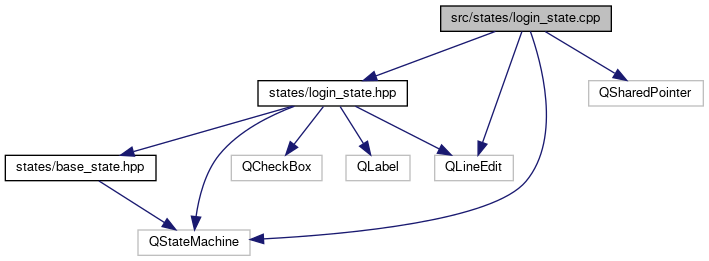
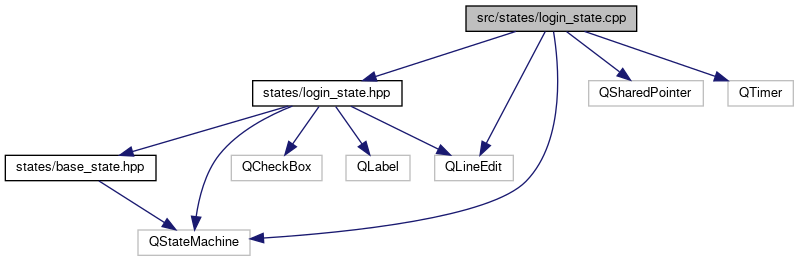
Update docs

diff --git a/docs/login__state_8hpp_source.html b/docs/login__state_8hpp_source.html
@@ -117,48 +117,50 @@ $(function() {
 <div class="line"><a name="l00055"></a><span class="lineno"><a class="line" href="classkmanager_1_1state_1_1LoginState.html#a6d16e72bad2e82f022ae99c856c7b39e">   55</a></span>&#160;            QSharedPointer&lt;QLineEdit&gt; <a class="code" href="classkmanager_1_1state_1_1LoginState.html#a6d16e72bad2e82f022ae99c856c7b39e">enter_password</a>;</div>
 <div class="line"><a name="l00056"></a><span class="lineno"><a class="line" href="classkmanager_1_1state_1_1LoginState.html#af689f36ec168fabde1f3a9a8a6cc63e4">   56</a></span>&#160;            QSharedPointer&lt;QCheckBox&gt; <a class="code" href="classkmanager_1_1state_1_1LoginState.html#af689f36ec168fabde1f3a9a8a6cc63e4">checkbox</a>;</div>
 <div class="line"><a name="l00057"></a><span class="lineno"><a class="line" href="classkmanager_1_1state_1_1LoginState.html#a16c6cdc04d12c5e04512200db6e82526">   57</a></span>&#160;            QSharedPointer&lt;QLabel&gt; <a class="code" href="classkmanager_1_1state_1_1LoginState.html#a16c6cdc04d12c5e04512200db6e82526">enter_password_label</a>;</div>
-<div class="line"><a name="l00058"></a><span class="lineno">   58</span>&#160; </div>
-<div class="line"><a name="l00059"></a><span class="lineno">   59</span>&#160;            <span class="comment">// Variables (other)</span></div>
-<div class="line"><a name="l00060"></a><span class="lineno"><a class="line" href="classkmanager_1_1state_1_1LoginState.html#ae30e715c020da40d80d73b3ccd485454">   60</a></span>&#160;            QWidget* <a class="code" href="classkmanager_1_1state_1_1LoginState.html#ae30e715c020da40d80d73b3ccd485454">host</a>;</div>
-<div class="line"><a name="l00061"></a><span class="lineno">   61</span>&#160;        </div>
-<div class="line"><a name="l00062"></a><span class="lineno">   62</span>&#160;        <span class="comment">//====================================================</span></div>
-<div class="line"><a name="l00063"></a><span class="lineno">   63</span>&#160;        <span class="comment">//     Private</span></div>
-<div class="line"><a name="l00064"></a><span class="lineno">   64</span>&#160;        <span class="comment">//====================================================</span></div>
-<div class="line"><a name="l00065"></a><span class="lineno">   65</span>&#160;        <span class="keyword">private</span>:</div>
-<div class="line"><a name="l00066"></a><span class="lineno">   66</span>&#160; </div>
-<div class="line"><a name="l00067"></a><span class="lineno">   67</span>&#160;            <span class="comment">// Methods</span></div>
-<div class="line"><a name="l00068"></a><span class="lineno">   68</span>&#160;            <span class="keywordtype">void</span> addWidgets() <span class="keyword">override</span>;</div>
-<div class="line"><a name="l00069"></a><span class="lineno">   69</span>&#160;            <span class="keywordtype">void</span> assignProperties() <span class="keyword">override</span>;</div>
-<div class="line"><a name="l00070"></a><span class="lineno">   70</span>&#160; </div>
-<div class="line"><a name="l00071"></a><span class="lineno">   71</span>&#160;            <span class="comment">// Constants</span></div>
-<div class="line"><a name="l00072"></a><span class="lineno">   72</span>&#160;            <span class="keyword">const</span> uint32_t width{ 270 };</div>
-<div class="line"><a name="l00073"></a><span class="lineno">   73</span>&#160;            <span class="keyword">const</span> uint32_t height{ 70 };</div>
-<div class="line"><a name="l00074"></a><span class="lineno">   74</span>&#160; </div>
-<div class="line"><a name="l00075"></a><span class="lineno">   75</span>&#160;        <span class="comment">//====================================================</span></div>
-<div class="line"><a name="l00076"></a><span class="lineno">   76</span>&#160;        <span class="comment">//     private slots</span></div>
-<div class="line"><a name="l00077"></a><span class="lineno">   77</span>&#160;        <span class="comment">//====================================================</span></div>
-<div class="line"><a name="l00078"></a><span class="lineno">   78</span>&#160;        <span class="keyword">private</span> slots:</div>
-<div class="line"><a name="l00079"></a><span class="lineno">   79</span>&#160;            <span class="keywordtype">void</span> changeToggleState();</div>
-<div class="line"><a name="l00080"></a><span class="lineno">   80</span>&#160;            <span class="keywordtype">void</span> login();</div>
-<div class="line"><a name="l00081"></a><span class="lineno">   81</span>&#160; </div>
-<div class="line"><a name="l00082"></a><span class="lineno">   82</span>&#160;        <span class="comment">//====================================================</span></div>
-<div class="line"><a name="l00083"></a><span class="lineno">   83</span>&#160;        <span class="comment">//     signals</span></div>
-<div class="line"><a name="l00084"></a><span class="lineno">   84</span>&#160;        <span class="comment">//====================================================</span></div>
-<div class="line"><a name="l00085"></a><span class="lineno">   85</span>&#160;        signals:</div>
-<div class="line"><a name="l00086"></a><span class="lineno"><a class="line" href="classkmanager_1_1state_1_1LoginState.html#ac3a7719f98c729e202136f5d8996e64d">   86</a></span>&#160;            <span class="keywordtype">void</span> <a class="code" href="classkmanager_1_1state_1_1LoginState.html#ac3a7719f98c729e202136f5d8996e64d">login_successful</a>( <span class="keywordtype">bool</span> checked = <span class="keyword">false</span> );</div>
-<div class="line"><a name="l00087"></a><span class="lineno">   87</span>&#160;    };</div>
-<div class="line"><a name="l00088"></a><span class="lineno">   88</span>&#160;}</div>
-<div class="line"><a name="l00089"></a><span class="lineno">   89</span>&#160; </div>
-<div class="line"><a name="l00090"></a><span class="lineno">   90</span>&#160;<span class="preprocessor">#endif</span></div>
+<div class="line"><a name="l00058"></a><span class="lineno"><a class="line" href="classkmanager_1_1state_1_1LoginState.html#a5dfe34e8462d9e5452b07c75343c09b1">   58</a></span>&#160;            QSharedPointer&lt;QLabel&gt; <a class="code" href="classkmanager_1_1state_1_1LoginState.html#a5dfe34e8462d9e5452b07c75343c09b1">error_label</a>;</div>
+<div class="line"><a name="l00059"></a><span class="lineno">   59</span>&#160; </div>
+<div class="line"><a name="l00060"></a><span class="lineno">   60</span>&#160;            <span class="comment">// Variables (other)</span></div>
+<div class="line"><a name="l00061"></a><span class="lineno"><a class="line" href="classkmanager_1_1state_1_1LoginState.html#ae30e715c020da40d80d73b3ccd485454">   61</a></span>&#160;            QWidget* <a class="code" href="classkmanager_1_1state_1_1LoginState.html#ae30e715c020da40d80d73b3ccd485454">host</a>;</div>
+<div class="line"><a name="l00062"></a><span class="lineno">   62</span>&#160;        </div>
+<div class="line"><a name="l00063"></a><span class="lineno">   63</span>&#160;        <span class="comment">//====================================================</span></div>
+<div class="line"><a name="l00064"></a><span class="lineno">   64</span>&#160;        <span class="comment">//     Private</span></div>
+<div class="line"><a name="l00065"></a><span class="lineno">   65</span>&#160;        <span class="comment">//====================================================</span></div>
+<div class="line"><a name="l00066"></a><span class="lineno">   66</span>&#160;        <span class="keyword">private</span>:</div>
+<div class="line"><a name="l00067"></a><span class="lineno">   67</span>&#160; </div>
+<div class="line"><a name="l00068"></a><span class="lineno">   68</span>&#160;            <span class="comment">// Methods</span></div>
+<div class="line"><a name="l00069"></a><span class="lineno">   69</span>&#160;            <span class="keywordtype">void</span> addWidgets() <span class="keyword">override</span>;</div>
+<div class="line"><a name="l00070"></a><span class="lineno">   70</span>&#160;            <span class="keywordtype">void</span> assignProperties() <span class="keyword">override</span>;</div>
+<div class="line"><a name="l00071"></a><span class="lineno">   71</span>&#160; </div>
+<div class="line"><a name="l00072"></a><span class="lineno">   72</span>&#160;            <span class="comment">// Constants</span></div>
+<div class="line"><a name="l00073"></a><span class="lineno">   73</span>&#160;            <span class="keyword">const</span> uint32_t width{ 270 };</div>
+<div class="line"><a name="l00074"></a><span class="lineno">   74</span>&#160;            <span class="keyword">const</span> uint32_t height{ 70 };</div>
+<div class="line"><a name="l00075"></a><span class="lineno">   75</span>&#160; </div>
+<div class="line"><a name="l00076"></a><span class="lineno">   76</span>&#160;        <span class="comment">//====================================================</span></div>
+<div class="line"><a name="l00077"></a><span class="lineno">   77</span>&#160;        <span class="comment">//     private slots</span></div>
+<div class="line"><a name="l00078"></a><span class="lineno">   78</span>&#160;        <span class="comment">//====================================================</span></div>
+<div class="line"><a name="l00079"></a><span class="lineno">   79</span>&#160;        <span class="keyword">private</span> slots:</div>
+<div class="line"><a name="l00080"></a><span class="lineno">   80</span>&#160;            <span class="keywordtype">void</span> changeToggleState();</div>
+<div class="line"><a name="l00081"></a><span class="lineno">   81</span>&#160;            <span class="keywordtype">void</span> login();</div>
+<div class="line"><a name="l00082"></a><span class="lineno">   82</span>&#160; </div>
+<div class="line"><a name="l00083"></a><span class="lineno">   83</span>&#160;        <span class="comment">//====================================================</span></div>
+<div class="line"><a name="l00084"></a><span class="lineno">   84</span>&#160;        <span class="comment">//     signals</span></div>
+<div class="line"><a name="l00085"></a><span class="lineno">   85</span>&#160;        <span class="comment">//====================================================</span></div>
+<div class="line"><a name="l00086"></a><span class="lineno">   86</span>&#160;        signals:</div>
+<div class="line"><a name="l00087"></a><span class="lineno"><a class="line" href="classkmanager_1_1state_1_1LoginState.html#ac3a7719f98c729e202136f5d8996e64d">   87</a></span>&#160;            <span class="keywordtype">void</span> <a class="code" href="classkmanager_1_1state_1_1LoginState.html#ac3a7719f98c729e202136f5d8996e64d">login_successful</a>( <span class="keywordtype">bool</span> checked = <span class="keyword">false</span> );</div>
+<div class="line"><a name="l00088"></a><span class="lineno">   88</span>&#160;    };</div>
+<div class="line"><a name="l00089"></a><span class="lineno">   89</span>&#160;}</div>
+<div class="line"><a name="l00090"></a><span class="lineno">   90</span>&#160; </div>
+<div class="line"><a name="l00091"></a><span class="lineno">   91</span>&#160;<span class="preprocessor">#endif</span></div>
 <div class="ttc" id="abase__state_8hpp_html"><div class="ttname"><a href="base__state_8hpp.html">base_state.hpp</a></div></div>
 <div class="ttc" id="aclasskmanager_1_1state_1_1BaseState_html"><div class="ttname"><a href="classkmanager_1_1state_1_1BaseState.html">kmanager::state::BaseState</a></div><div class="ttdoc">Class used to construct the base state of the app.</div><div class="ttdef"><b>Definition:</b> base_state.hpp:34</div></div>
 <div class="ttc" id="aclasskmanager_1_1state_1_1LoginState_html"><div class="ttname"><a href="classkmanager_1_1state_1_1LoginState.html">kmanager::state::LoginState</a></div><div class="ttdoc">Class used to construct the login state of the app.</div><div class="ttdef"><b>Definition:</b> login_state.hpp:40</div></div>
 <div class="ttc" id="aclasskmanager_1_1state_1_1LoginState_html_a16c6cdc04d12c5e04512200db6e82526"><div class="ttname"><a href="classkmanager_1_1state_1_1LoginState.html#a16c6cdc04d12c5e04512200db6e82526">kmanager::state::LoginState::enter_password_label</a></div><div class="ttdeci">QSharedPointer&lt; QLabel &gt; enter_password_label</div><div class="ttdef"><b>Definition:</b> login_state.hpp:57</div></div>
-<div class="ttc" id="aclasskmanager_1_1state_1_1LoginState_html_a506df48ef20045b7398e4c768bab8621"><div class="ttname"><a href="classkmanager_1_1state_1_1LoginState.html#a506df48ef20045b7398e4c768bab8621">kmanager::state::LoginState::LoginState</a></div><div class="ttdeci">LoginState(QWidget *host, QState *parent=nullptr)</div><div class="ttdoc">Construct a new LoginState object.</div><div class="ttdef"><b>Definition:</b> login_state.cpp:33</div></div>
+<div class="ttc" id="aclasskmanager_1_1state_1_1LoginState_html_a506df48ef20045b7398e4c768bab8621"><div class="ttname"><a href="classkmanager_1_1state_1_1LoginState.html#a506df48ef20045b7398e4c768bab8621">kmanager::state::LoginState::LoginState</a></div><div class="ttdeci">LoginState(QWidget *host, QState *parent=nullptr)</div><div class="ttdoc">Construct a new LoginState object.</div><div class="ttdef"><b>Definition:</b> login_state.cpp:34</div></div>
+<div class="ttc" id="aclasskmanager_1_1state_1_1LoginState_html_a5dfe34e8462d9e5452b07c75343c09b1"><div class="ttname"><a href="classkmanager_1_1state_1_1LoginState.html#a5dfe34e8462d9e5452b07c75343c09b1">kmanager::state::LoginState::error_label</a></div><div class="ttdeci">QSharedPointer&lt; QLabel &gt; error_label</div><div class="ttdef"><b>Definition:</b> login_state.hpp:58</div></div>
 <div class="ttc" id="aclasskmanager_1_1state_1_1LoginState_html_a6d16e72bad2e82f022ae99c856c7b39e"><div class="ttname"><a href="classkmanager_1_1state_1_1LoginState.html#a6d16e72bad2e82f022ae99c856c7b39e">kmanager::state::LoginState::enter_password</a></div><div class="ttdeci">QSharedPointer&lt; QLineEdit &gt; enter_password</div><div class="ttdef"><b>Definition:</b> login_state.hpp:55</div></div>
 <div class="ttc" id="aclasskmanager_1_1state_1_1LoginState_html_ac3a7719f98c729e202136f5d8996e64d"><div class="ttname"><a href="classkmanager_1_1state_1_1LoginState.html#ac3a7719f98c729e202136f5d8996e64d">kmanager::state::LoginState::login_successful</a></div><div class="ttdeci">void login_successful(bool checked=false)</div></div>
-<div class="ttc" id="aclasskmanager_1_1state_1_1LoginState_html_ae30e715c020da40d80d73b3ccd485454"><div class="ttname"><a href="classkmanager_1_1state_1_1LoginState.html#ae30e715c020da40d80d73b3ccd485454">kmanager::state::LoginState::host</a></div><div class="ttdeci">QWidget * host</div><div class="ttdef"><b>Definition:</b> login_state.hpp:60</div></div>
-<div class="ttc" id="aclasskmanager_1_1state_1_1LoginState_html_aeb18628dfbfbc7fa9e032240cf2e3c05"><div class="ttname"><a href="classkmanager_1_1state_1_1LoginState.html#aeb18628dfbfbc7fa9e032240cf2e3c05">kmanager::state::LoginState::~LoginState</a></div><div class="ttdeci">~LoginState()</div><div class="ttdoc">Destruct a new LoginState object.</div><div class="ttdef"><b>Definition:</b> login_state.cpp:51</div></div>
+<div class="ttc" id="aclasskmanager_1_1state_1_1LoginState_html_ae30e715c020da40d80d73b3ccd485454"><div class="ttname"><a href="classkmanager_1_1state_1_1LoginState.html#ae30e715c020da40d80d73b3ccd485454">kmanager::state::LoginState::host</a></div><div class="ttdeci">QWidget * host</div><div class="ttdef"><b>Definition:</b> login_state.hpp:61</div></div>
+<div class="ttc" id="aclasskmanager_1_1state_1_1LoginState_html_aeb18628dfbfbc7fa9e032240cf2e3c05"><div class="ttname"><a href="classkmanager_1_1state_1_1LoginState.html#aeb18628dfbfbc7fa9e032240cf2e3c05">kmanager::state::LoginState::~LoginState</a></div><div class="ttdeci">~LoginState()</div><div class="ttdoc">Destruct a new LoginState object.</div><div class="ttdef"><b>Definition:</b> login_state.cpp:52</div></div>
 <div class="ttc" id="aclasskmanager_1_1state_1_1LoginState_html_af689f36ec168fabde1f3a9a8a6cc63e4"><div class="ttname"><a href="classkmanager_1_1state_1_1LoginState.html#af689f36ec168fabde1f3a9a8a6cc63e4">kmanager::state::LoginState::checkbox</a></div><div class="ttdeci">QSharedPointer&lt; QCheckBox &gt; checkbox</div><div class="ttdef"><b>Definition:</b> login_state.hpp:56</div></div>
 <div class="ttc" id="anamespacekmanager_1_1state_html"><div class="ttname"><a href="namespacekmanager_1_1state.html">kmanager::state</a></div><div class="ttdef"><b>Definition:</b> add_password_state.cpp:30</div></div>
 </div><!-- fragment --></div><!-- contents -->

diff --git a/docs/classkmanager_1_1state_1_1LoginState-members.html b/docs/classkmanager_1_1state_1_1LoginState-members.html
@@ -78,11 +78,12 @@ $(function() {
   <tr><td class="entry"><a class="el" href="classkmanager_1_1state_1_1LoginState.html#af689f36ec168fabde1f3a9a8a6cc63e4">checkbox</a></td><td class="entry"><a class="el" href="classkmanager_1_1state_1_1LoginState.html">kmanager::state::LoginState</a></td><td class="entry"></td></tr>
   <tr class="even"><td class="entry"><a class="el" href="classkmanager_1_1state_1_1LoginState.html#a6d16e72bad2e82f022ae99c856c7b39e">enter_password</a></td><td class="entry"><a class="el" href="classkmanager_1_1state_1_1LoginState.html">kmanager::state::LoginState</a></td><td class="entry"></td></tr>
   <tr><td class="entry"><a class="el" href="classkmanager_1_1state_1_1LoginState.html#a16c6cdc04d12c5e04512200db6e82526">enter_password_label</a></td><td class="entry"><a class="el" href="classkmanager_1_1state_1_1LoginState.html">kmanager::state::LoginState</a></td><td class="entry"></td></tr>
-  <tr class="even"><td class="entry"><a class="el" href="classkmanager_1_1state_1_1LoginState.html#ae30e715c020da40d80d73b3ccd485454">host</a></td><td class="entry"><a class="el" href="classkmanager_1_1state_1_1LoginState.html">kmanager::state::LoginState</a></td><td class="entry"></td></tr>
-  <tr><td class="entry"><a class="el" href="classkmanager_1_1state_1_1LoginState.html#ac3a7719f98c729e202136f5d8996e64d">login_successful</a>(bool checked=false)</td><td class="entry"><a class="el" href="classkmanager_1_1state_1_1LoginState.html">kmanager::state::LoginState</a></td><td class="entry"><span class="mlabel">signal</span></td></tr>
-  <tr class="even"><td class="entry"><a class="el" href="classkmanager_1_1state_1_1LoginState.html#a506df48ef20045b7398e4c768bab8621">LoginState</a>(QWidget *host, QState *parent=nullptr)</td><td class="entry"><a class="el" href="classkmanager_1_1state_1_1LoginState.html">kmanager::state::LoginState</a></td><td class="entry"><span class="mlabel">explicit</span></td></tr>
-  <tr><td class="entry"><a class="el" href="classkmanager_1_1state_1_1BaseState.html#a96981741385b1a8ba6c5538df52ad343">~BaseState</a>()</td><td class="entry"><a class="el" href="classkmanager_1_1state_1_1BaseState.html">kmanager::state::BaseState</a></td><td class="entry"><span class="mlabel">protected</span><span class="mlabel">virtual</span></td></tr>
-  <tr class="even"><td class="entry"><a class="el" href="classkmanager_1_1state_1_1LoginState.html#aeb18628dfbfbc7fa9e032240cf2e3c05">~LoginState</a>()</td><td class="entry"><a class="el" href="classkmanager_1_1state_1_1LoginState.html">kmanager::state::LoginState</a></td><td class="entry"></td></tr>
+  <tr class="even"><td class="entry"><a class="el" href="classkmanager_1_1state_1_1LoginState.html#a5dfe34e8462d9e5452b07c75343c09b1">error_label</a></td><td class="entry"><a class="el" href="classkmanager_1_1state_1_1LoginState.html">kmanager::state::LoginState</a></td><td class="entry"></td></tr>
+  <tr><td class="entry"><a class="el" href="classkmanager_1_1state_1_1LoginState.html#ae30e715c020da40d80d73b3ccd485454">host</a></td><td class="entry"><a class="el" href="classkmanager_1_1state_1_1LoginState.html">kmanager::state::LoginState</a></td><td class="entry"></td></tr>
+  <tr class="even"><td class="entry"><a class="el" href="classkmanager_1_1state_1_1LoginState.html#ac3a7719f98c729e202136f5d8996e64d">login_successful</a>(bool checked=false)</td><td class="entry"><a class="el" href="classkmanager_1_1state_1_1LoginState.html">kmanager::state::LoginState</a></td><td class="entry"><span class="mlabel">signal</span></td></tr>
+  <tr><td class="entry"><a class="el" href="classkmanager_1_1state_1_1LoginState.html#a506df48ef20045b7398e4c768bab8621">LoginState</a>(QWidget *host, QState *parent=nullptr)</td><td class="entry"><a class="el" href="classkmanager_1_1state_1_1LoginState.html">kmanager::state::LoginState</a></td><td class="entry"><span class="mlabel">explicit</span></td></tr>
+  <tr class="even"><td class="entry"><a class="el" href="classkmanager_1_1state_1_1BaseState.html#a96981741385b1a8ba6c5538df52ad343">~BaseState</a>()</td><td class="entry"><a class="el" href="classkmanager_1_1state_1_1BaseState.html">kmanager::state::BaseState</a></td><td class="entry"><span class="mlabel">protected</span><span class="mlabel">virtual</span></td></tr>
+  <tr><td class="entry"><a class="el" href="classkmanager_1_1state_1_1LoginState.html#aeb18628dfbfbc7fa9e032240cf2e3c05">~LoginState</a>()</td><td class="entry"><a class="el" href="classkmanager_1_1state_1_1LoginState.html">kmanager::state::LoginState</a></td><td class="entry"></td></tr>
 </table></div><!-- contents -->
 <!-- start footer part -->
 <hr class="footer"/><address class="footer"><small>

diff --git a/docs/classkmanager_1_1state_1_1LoginState.html b/docs/classkmanager_1_1state_1_1LoginState.html
@@ -124,6 +124,8 @@ Public Attributes</h2></td></tr>
 <tr class="separator:af689f36ec168fabde1f3a9a8a6cc63e4"><td class="memSeparator" colspan="2">&#160;</td></tr>
 <tr class="memitem:a16c6cdc04d12c5e04512200db6e82526"><td class="memItemLeft" align="right" valign="top">QSharedPointer&lt; QLabel &gt;&#160;</td><td class="memItemRight" valign="bottom"><a class="el" href="classkmanager_1_1state_1_1LoginState.html#a16c6cdc04d12c5e04512200db6e82526">enter_password_label</a></td></tr>
 <tr class="separator:a16c6cdc04d12c5e04512200db6e82526"><td class="memSeparator" colspan="2">&#160;</td></tr>
+<tr class="memitem:a5dfe34e8462d9e5452b07c75343c09b1"><td class="memItemLeft" align="right" valign="top">QSharedPointer&lt; QLabel &gt;&#160;</td><td class="memItemRight" valign="bottom"><a class="el" href="classkmanager_1_1state_1_1LoginState.html#a5dfe34e8462d9e5452b07c75343c09b1">error_label</a></td></tr>
+<tr class="separator:a5dfe34e8462d9e5452b07c75343c09b1"><td class="memSeparator" colspan="2">&#160;</td></tr>
 <tr class="memitem:ae30e715c020da40d80d73b3ccd485454"><td class="memItemLeft" align="right" valign="top">QWidget *&#160;</td><td class="memItemRight" valign="bottom"><a class="el" href="classkmanager_1_1state_1_1LoginState.html#ae30e715c020da40d80d73b3ccd485454">host</a></td></tr>
 <tr class="separator:ae30e715c020da40d80d73b3ccd485454"><td class="memSeparator" colspan="2">&#160;</td></tr>
 </table><table class="memberdecls">
@@ -267,6 +269,20 @@ Additional Inherited Members</h2></td></tr>
       <table class="memname">
         <tr>
           <td class="memname">QSharedPointer&lt;QLabel&gt; kmanager::state::LoginState::enter_password_label</td>
+        </tr>
+      </table>
+</div><div class="memdoc">
+
+</div>
+</div>
+<a id="a5dfe34e8462d9e5452b07c75343c09b1"></a>
+<h2 class="memtitle"><span class="permalink"><a href="#a5dfe34e8462d9e5452b07c75343c09b1">&#9670;&nbsp;</a></span>error_label</h2>
+
+<div class="memitem">
+<div class="memproto">
+      <table class="memname">
+        <tr>
+          <td class="memname">QSharedPointer&lt;QLabel&gt; kmanager::state::LoginState::error_label</td>
         </tr>
       </table>
 </div><div class="memdoc">

diff --git a/docs/login__state_8cpp.html b/docs/login__state_8cpp.html
@@ -77,16 +77,18 @@ $(function() {
 <code>#include &lt;QStateMachine&gt;</code><br />
 <code>#include &lt;QLineEdit&gt;</code><br />
 <code>#include &lt;QSharedPointer&gt;</code><br />
+<code>#include &lt;QTimer&gt;</code><br />
 </div><div class="textblock"><div class="dynheader">
 Include dependency graph for login_state.cpp:</div>
 <div class="dyncontent">
 <div class="center"><img src="login__state_8cpp__incl.png" border="0" usemap="#asrc_2states_2login__state_8cpp" alt=""/></div>
 <map name="asrc_2states_2login__state_8cpp" id="asrc_2states_2login__state_8cpp">
-<area shape="rect" title=" " alt="" coords="441,5,611,32"/>
-<area shape="rect" href="login__state_8hpp.html" title=" " alt="" coords="258,80,407,107"/>
+<area shape="rect" title=" " alt="" coords="466,5,637,32"/>
+<area shape="rect" href="login__state_8hpp.html" title=" " alt="" coords="253,80,402,107"/>
 <area shape="rect" title=" " alt="" coords="138,229,250,256"/>
 <area shape="rect" title=" " alt="" coords="435,155,513,181"/>
 <area shape="rect" title=" " alt="" coords="589,80,703,107"/>
+<area shape="rect" title=" " alt="" coords="728,80,793,107"/>
 <area shape="rect" href="base__state_8hpp.html" title=" " alt="" coords="5,155,156,181"/>
 <area shape="rect" title=" " alt="" coords="231,155,322,181"/>
 <area shape="rect" title=" " alt="" coords="346,155,410,181"/>

diff --git a/docs/search/all_4.js b/docs/search/all_4.js
@@ -3,6 +3,6 @@ var searchData=
   ['encrypt_41',['encrypt',['../classkmanager_1_1utility_1_1Crypto.html#ab6c012a2ed86782d071dbd7c9e374940',1,'kmanager::utility::Crypto']]],
   ['enter_5fpassword_42',['enter_password',['../classkmanager_1_1state_1_1LoginState.html#a6d16e72bad2e82f022ae99c856c7b39e',1,'kmanager::state::LoginState']]],
   ['enter_5fpassword_5flabel_43',['enter_password_label',['../classkmanager_1_1state_1_1LoginState.html#a16c6cdc04d12c5e04512200db6e82526',1,'kmanager::state::LoginState']]],
-  ['error_5flabel_44',['error_label',['../classkmanager_1_1state_1_1AddPasswordState.html#ad25bcbccc238870c010ac4390d8cedc3',1,'kmanager::state::AddPasswordState']]],
+  ['error_5flabel_44',['error_label',['../classkmanager_1_1state_1_1AddPasswordState.html#ad25bcbccc238870c010ac4390d8cedc3',1,'kmanager::state::AddPasswordState::error_label()'],['../classkmanager_1_1state_1_1LoginState.html#a5dfe34e8462d9e5452b07c75343c09b1',1,'kmanager::state::LoginState::error_label()']]],
   ['exit_5fbutton_45',['exit_button',['../classkmanager_1_1state_1_1MenuState.html#a8755a587f4f17f50ce0693ce69d156cb',1,'kmanager::state::MenuState']]]
 ];

diff --git a/docs/search/variables_3.js b/docs/search/variables_3.js
@@ -2,6 +2,6 @@ var searchData=
 [
   ['enter_5fpassword_260',['enter_password',['../classkmanager_1_1state_1_1LoginState.html#a6d16e72bad2e82f022ae99c856c7b39e',1,'kmanager::state::LoginState']]],
   ['enter_5fpassword_5flabel_261',['enter_password_label',['../classkmanager_1_1state_1_1LoginState.html#a16c6cdc04d12c5e04512200db6e82526',1,'kmanager::state::LoginState']]],
-  ['error_5flabel_262',['error_label',['../classkmanager_1_1state_1_1AddPasswordState.html#ad25bcbccc238870c010ac4390d8cedc3',1,'kmanager::state::AddPasswordState']]],
+  ['error_5flabel_262',['error_label',['../classkmanager_1_1state_1_1AddPasswordState.html#ad25bcbccc238870c010ac4390d8cedc3',1,'kmanager::state::AddPasswordState::error_label()'],['../classkmanager_1_1state_1_1LoginState.html#a5dfe34e8462d9e5452b07c75343c09b1',1,'kmanager::state::LoginState::error_label()']]],
   ['exit_5fbutton_263',['exit_button',['../classkmanager_1_1state_1_1MenuState.html#a8755a587f4f17f50ce0693ce69d156cb',1,'kmanager::state::MenuState']]]
 ];

diff --git a/docs/functions.html b/docs/functions.html
@@ -165,6 +165,7 @@ $(function() {
 </li>
 <li>error_label
 : <a class="el" href="classkmanager_1_1state_1_1AddPasswordState.html#ad25bcbccc238870c010ac4390d8cedc3">kmanager::state::AddPasswordState</a>
+, <a class="el" href="classkmanager_1_1state_1_1LoginState.html#a5dfe34e8462d9e5452b07c75343c09b1">kmanager::state::LoginState</a>
 </li>
 <li>exit_button
 : <a class="el" href="classkmanager_1_1state_1_1MenuState.html#a8755a587f4f17f50ce0693ce69d156cb">kmanager::state::MenuState</a>

diff --git a/docs/functions_vars.html b/docs/functions_vars.html
@@ -125,6 +125,7 @@ $(function() {
 </li>
 <li>error_label
 : <a class="el" href="classkmanager_1_1state_1_1AddPasswordState.html#ad25bcbccc238870c010ac4390d8cedc3">kmanager::state::AddPasswordState</a>
+, <a class="el" href="classkmanager_1_1state_1_1LoginState.html#a5dfe34e8462d9e5452b07c75343c09b1">kmanager::state::LoginState</a>
 </li>
 <li>exit_button
 : <a class="el" href="classkmanager_1_1state_1_1MenuState.html#a8755a587f4f17f50ce0693ce69d156cb">kmanager::state::MenuState</a>
